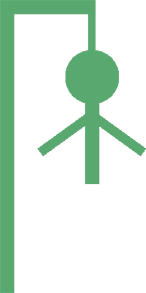
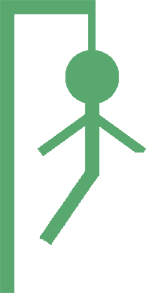
change the lose condition to 5 misses as per instructions

Changed region(s): [[0.274, 0.5836, 0.6849, 0.8601], [0.9315, 0.4915, 0.9863, 0.5529]]

diff --git a/public/play.js b/public/play.js
@@ -1,5 +1,3 @@
-
-
 $( document ).ready(function() {
   function preloadImg(src) {
       $('<img/>')[0].src = src;
@@ -11,7 +9,6 @@ $( document ).ready(function() {
   preloadImg('/miss-3.png');
   preloadImg('/miss-4.png');
   preloadImg('/miss-5.png');
-  preloadImg('/miss-6.png');
   
   $('body').addClass('js-enabled');
 

diff --git a/hangman.rb b/hangman.rb
@@ -14,7 +14,7 @@ class HangMan < Sinatra::Base
     end
     DICT = sorted_dict.sort.to_h
 
-    LOSE_SCORE = 6
+    LOSE_SCORE = 5
   end
 
   get '/' do
